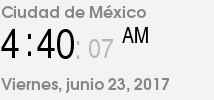
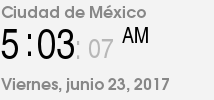
update images 23-06-2017 05:03

Changed region(s): [[0.1682, 0.27, 0.3645, 0.6], [0.0, 0.27, 0.1121, 0.6]]

diff --git a/README.md b/README.md
@@ -5964,3 +5964,5 @@
 |23-06-2017 04:11
 |23-06-2017 04:20
 |23-06-2017 04:40
+|23-06-2017 04:50
+|23-06-2017 05:03
